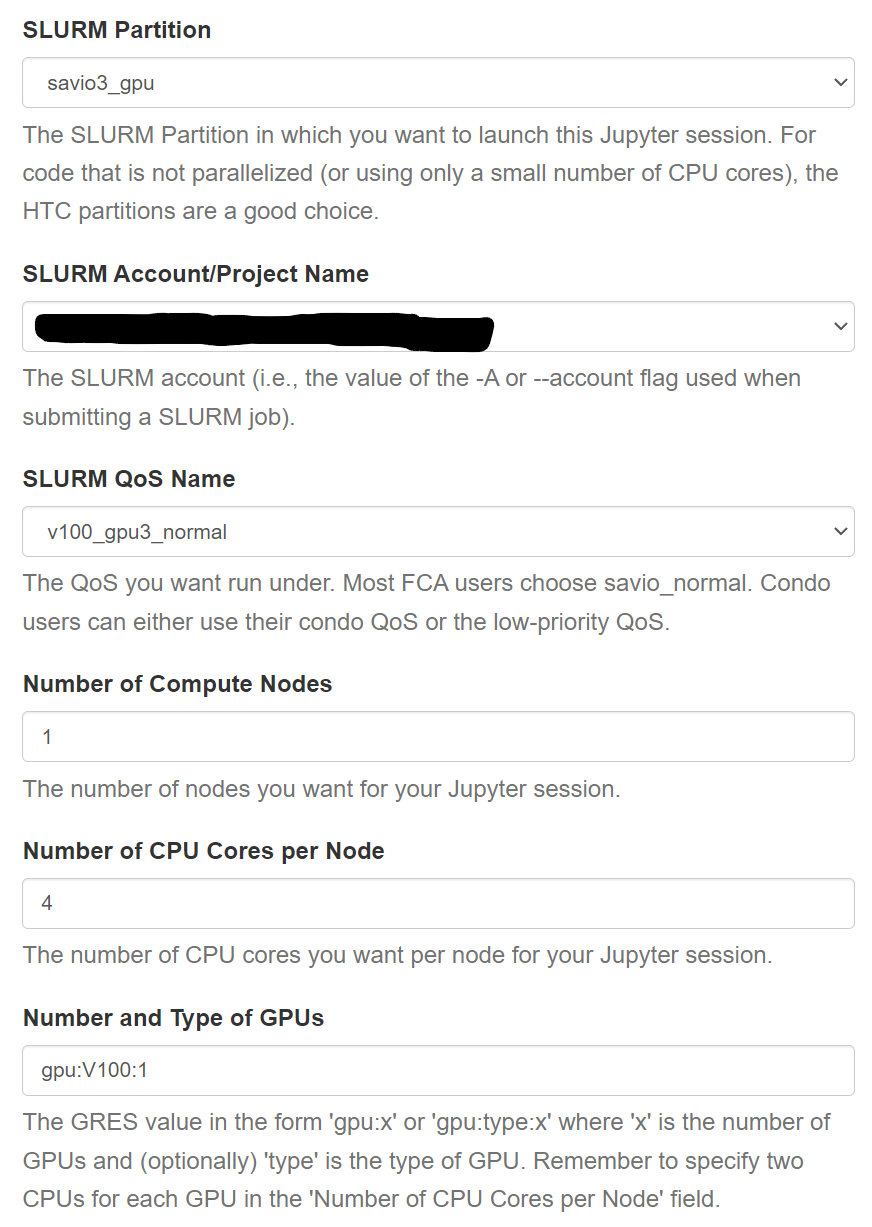
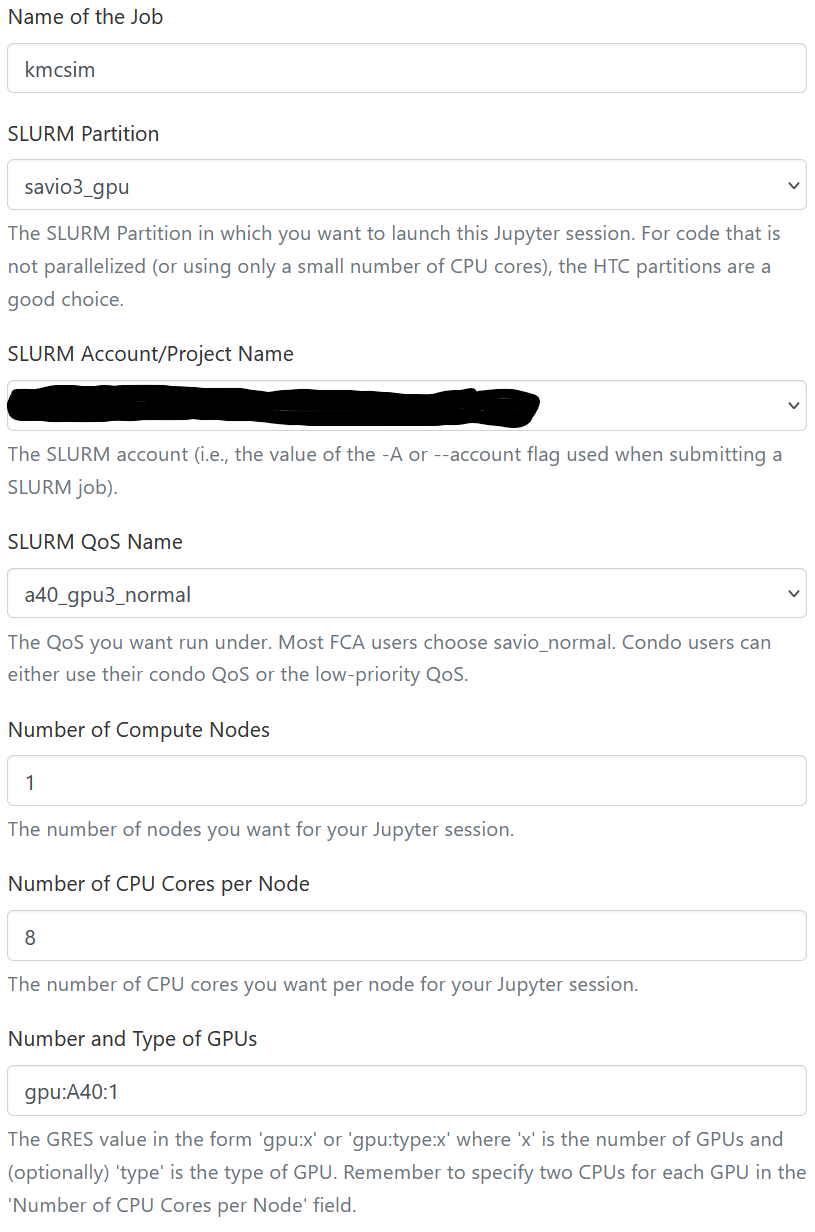
Added timer to KMC steps and updated recommended GPUs on READM.md

Changed region(s): [[0.0, 0.0, 0.9816, 0.991], [0.9509, 0.0619, 0.9816, 0.0929]]

diff --git a/src/simulation.py b/src/simulation.py
@@ -145,6 +145,12 @@ def simulate(lattice, energy_params, temp_params, molecule_params, duration, fra
     end_gpu.synchronize()
     print(f'\nWarm-up steps completed in: {(end_cpu - start_cpu)/60:.3f} min CPU | {(cp.cuda.get_elapsed_time(start_gpu, end_gpu)/1000)/60:.3f} min GPU.')
 
+    # Timing the KMC steps
+    start_gpu = cp.cuda.Event()
+    end_gpu = cp.cuda.Event()
+    start_gpu.record()
+    start_cpu = time.perf_counter()
+
     # Actual KMC steps
     print(f'\nStarting KMC steps...')
     i = 0  # Elementary KMC step counter
@@ -214,6 +220,20 @@ def simulate(lattice, energy_params, temp_params, molecule_params, duration, fra
             break
         # Increment the KMC step counter
         i += 1
+
+    # Timing the KMC steps
+    end_cpu = time.perf_counter()
+    end_gpu.record()
+    end_gpu.synchronize()
+    cpu_time = (end_cpu - start_cpu)/60
+    gpu_time = (cp.cuda.get_elapsed_time(start_gpu, end_gpu)/1000)/60
+    if (cpu_time > 120) | (gpu_time > 120):
+        cpu_time = cpu_time / 60
+        gpu_time = gpu_time / 60
+        print(f'\nKMC steps completed in: {cpu_time:.3f} hrs CPU | {gpu_time:.3f} hrs GPU.')
+    else:
+        print(f'\nKMC steps completed in: {cpu_time:.3f} min CPU | {gpu_time:.3f} min GPU.')
+
     results = {
         'n_steps': i,
         'n_frames': framenum,

diff --git a/README.md b/README.md
@@ -50,7 +50,7 @@ module load cuda/12.2.1
 ```
 
 ## Requesting a Jupyter Server interactive session with GPU 
-Go to "Interactive Apps" and select "Jupyter Server - compute via Slurm using Savio partitions". Name the job whatever you like, but I would recommend the below settings as a V100 GPU is ideal for this simulation.
+Go to "Interactive Apps" and select "Jupyter Server - compute via Slurm using Savio partitions". Name the job whatever you like, but I would recommend the below settings, as A40 GPUs work well with this simulation (A5000 GPUs on the savio4_gpu partition also work well if the wait for A40s is too long).
 
 <img src="images/jupyter_server_request_recommended_settings.png" alt="Example molecules and disclinations plot" width="500">
 
@@ -92,9 +92,9 @@ The following modifications should be made to the example job script file below:
 ## Number of tasks (one for each GPU desired for use case) (example):
 #SBATCH --ntasks=1
 ## Processors per task:
-#SBATCH --cpus-per-task=4
+#SBATCH --cpus-per-task=8
 ## Number of GPUs:
-#SBATCH --gres=gpu:V100:1
+#SBATCH --gres=gpu:A40:1
 ## Wall clock limit:
 #SBATCH --time=72:00:00
 ## Commands to run:
